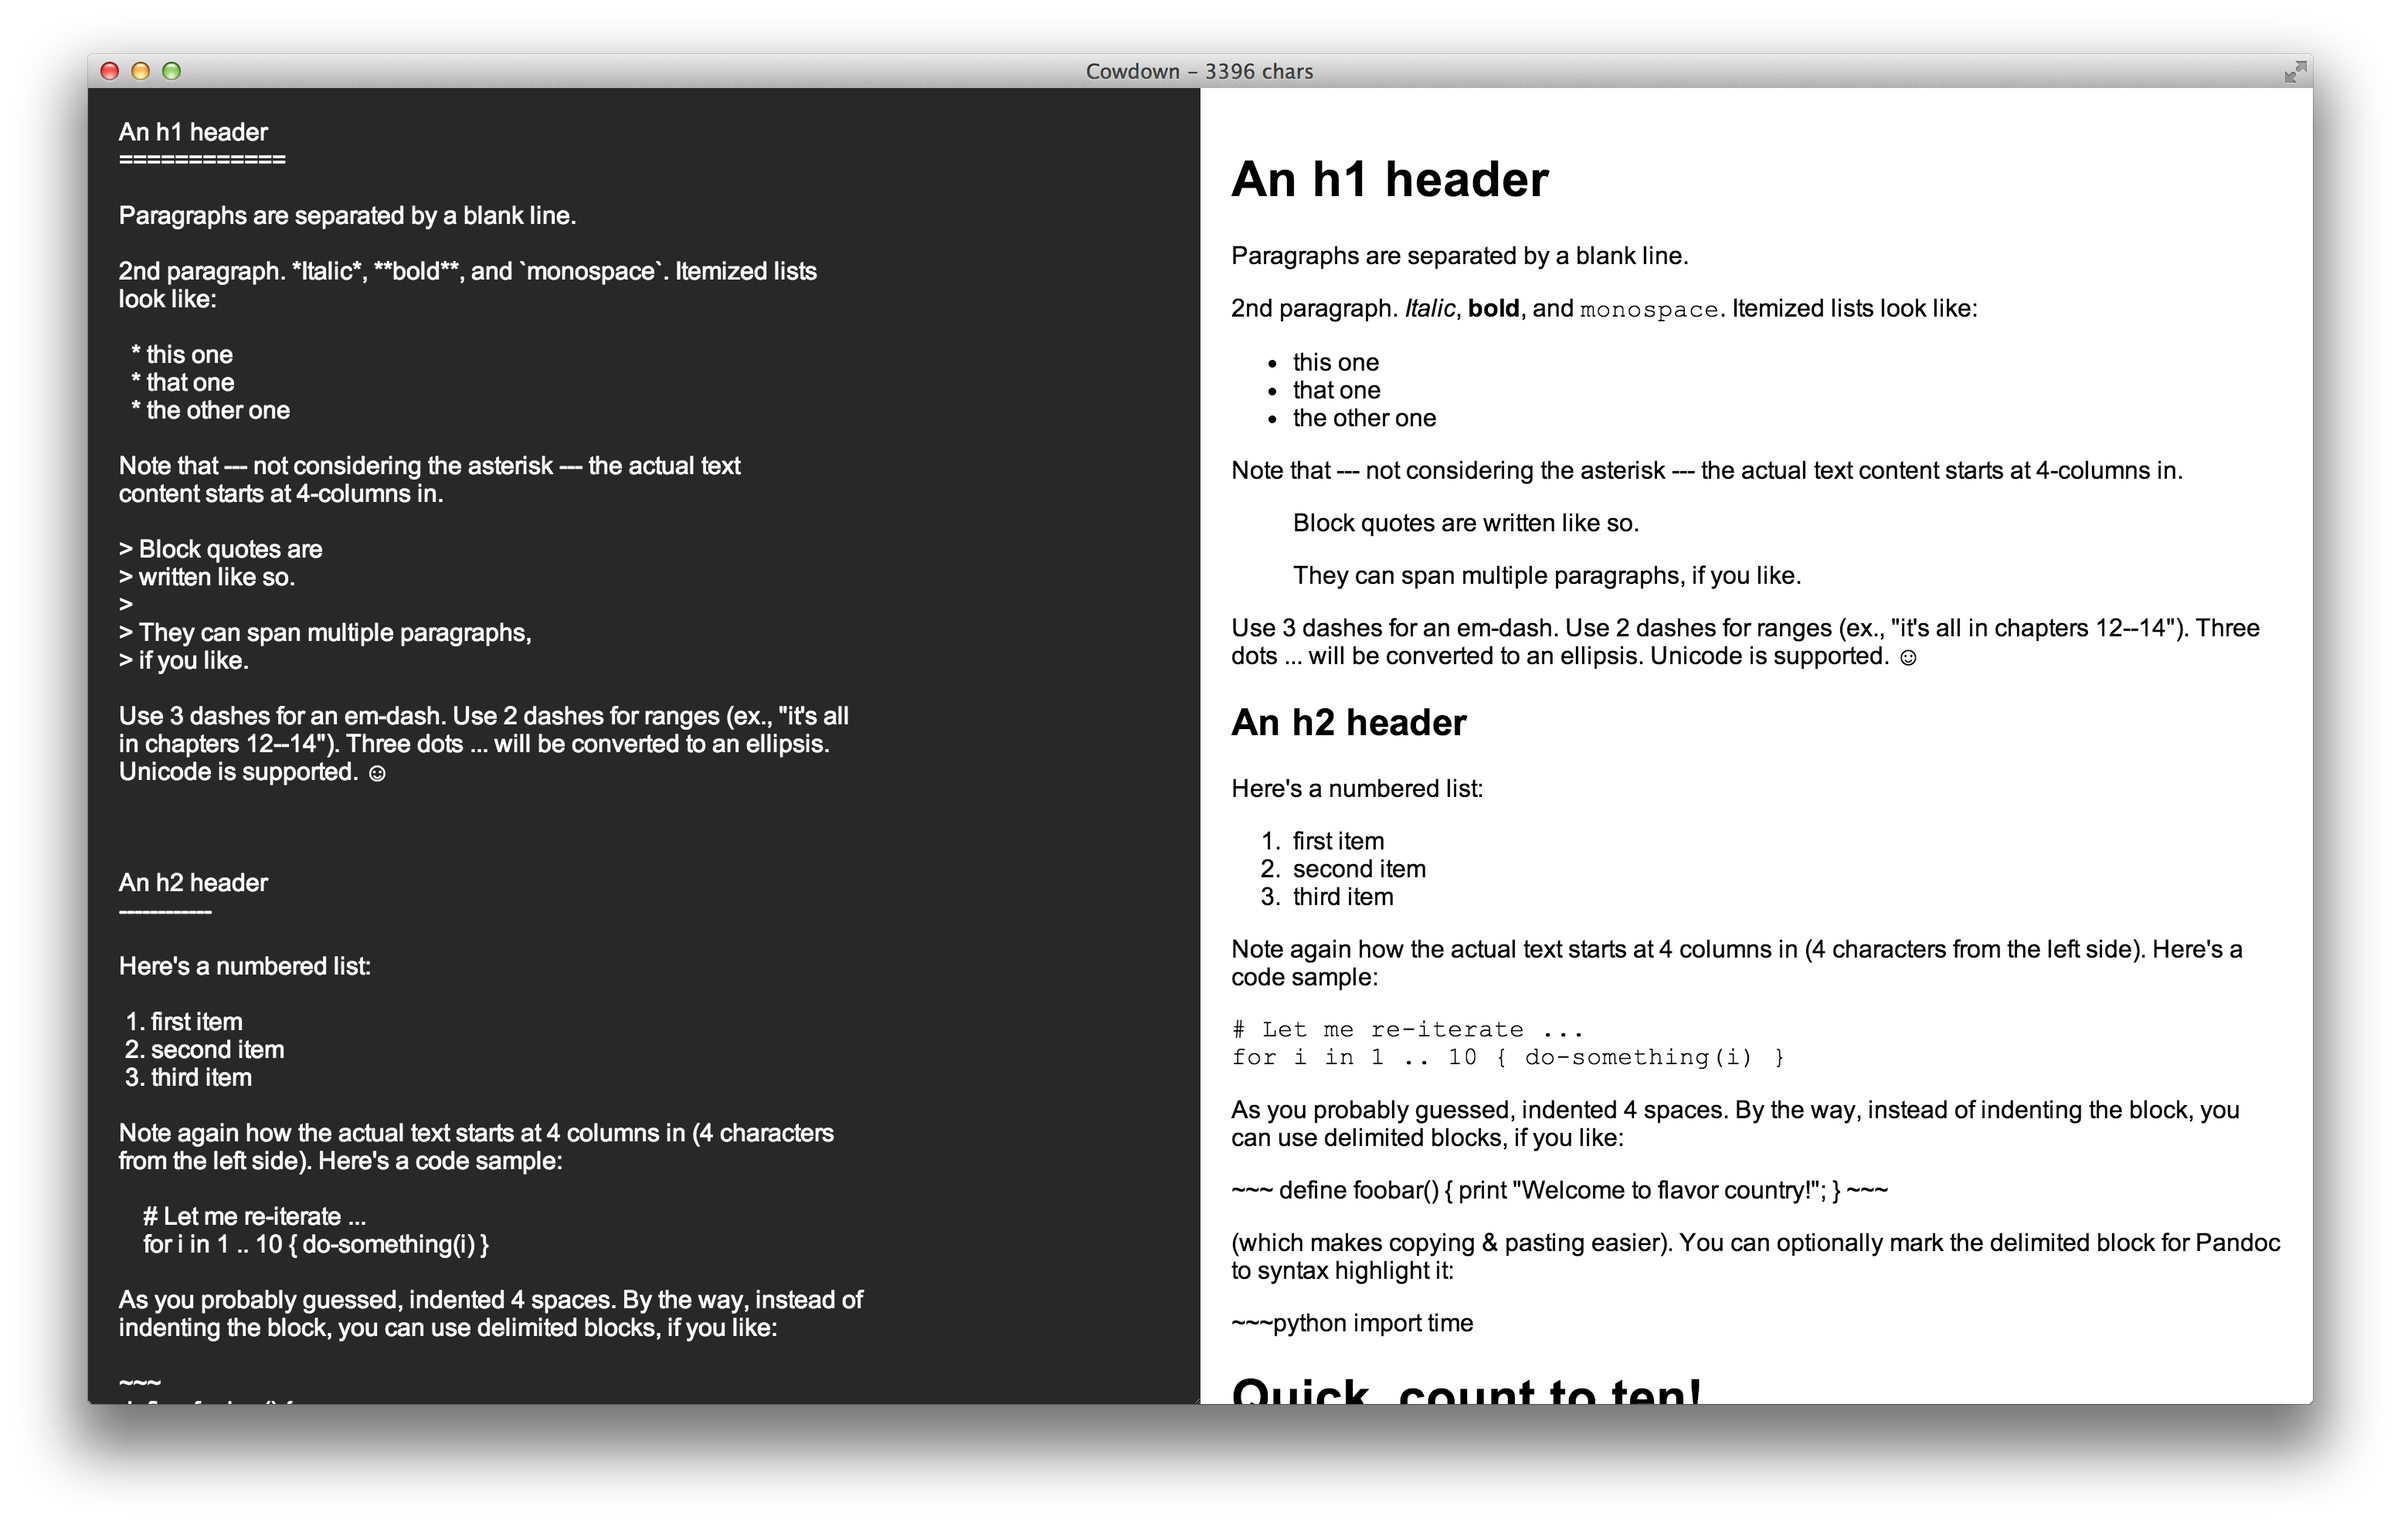
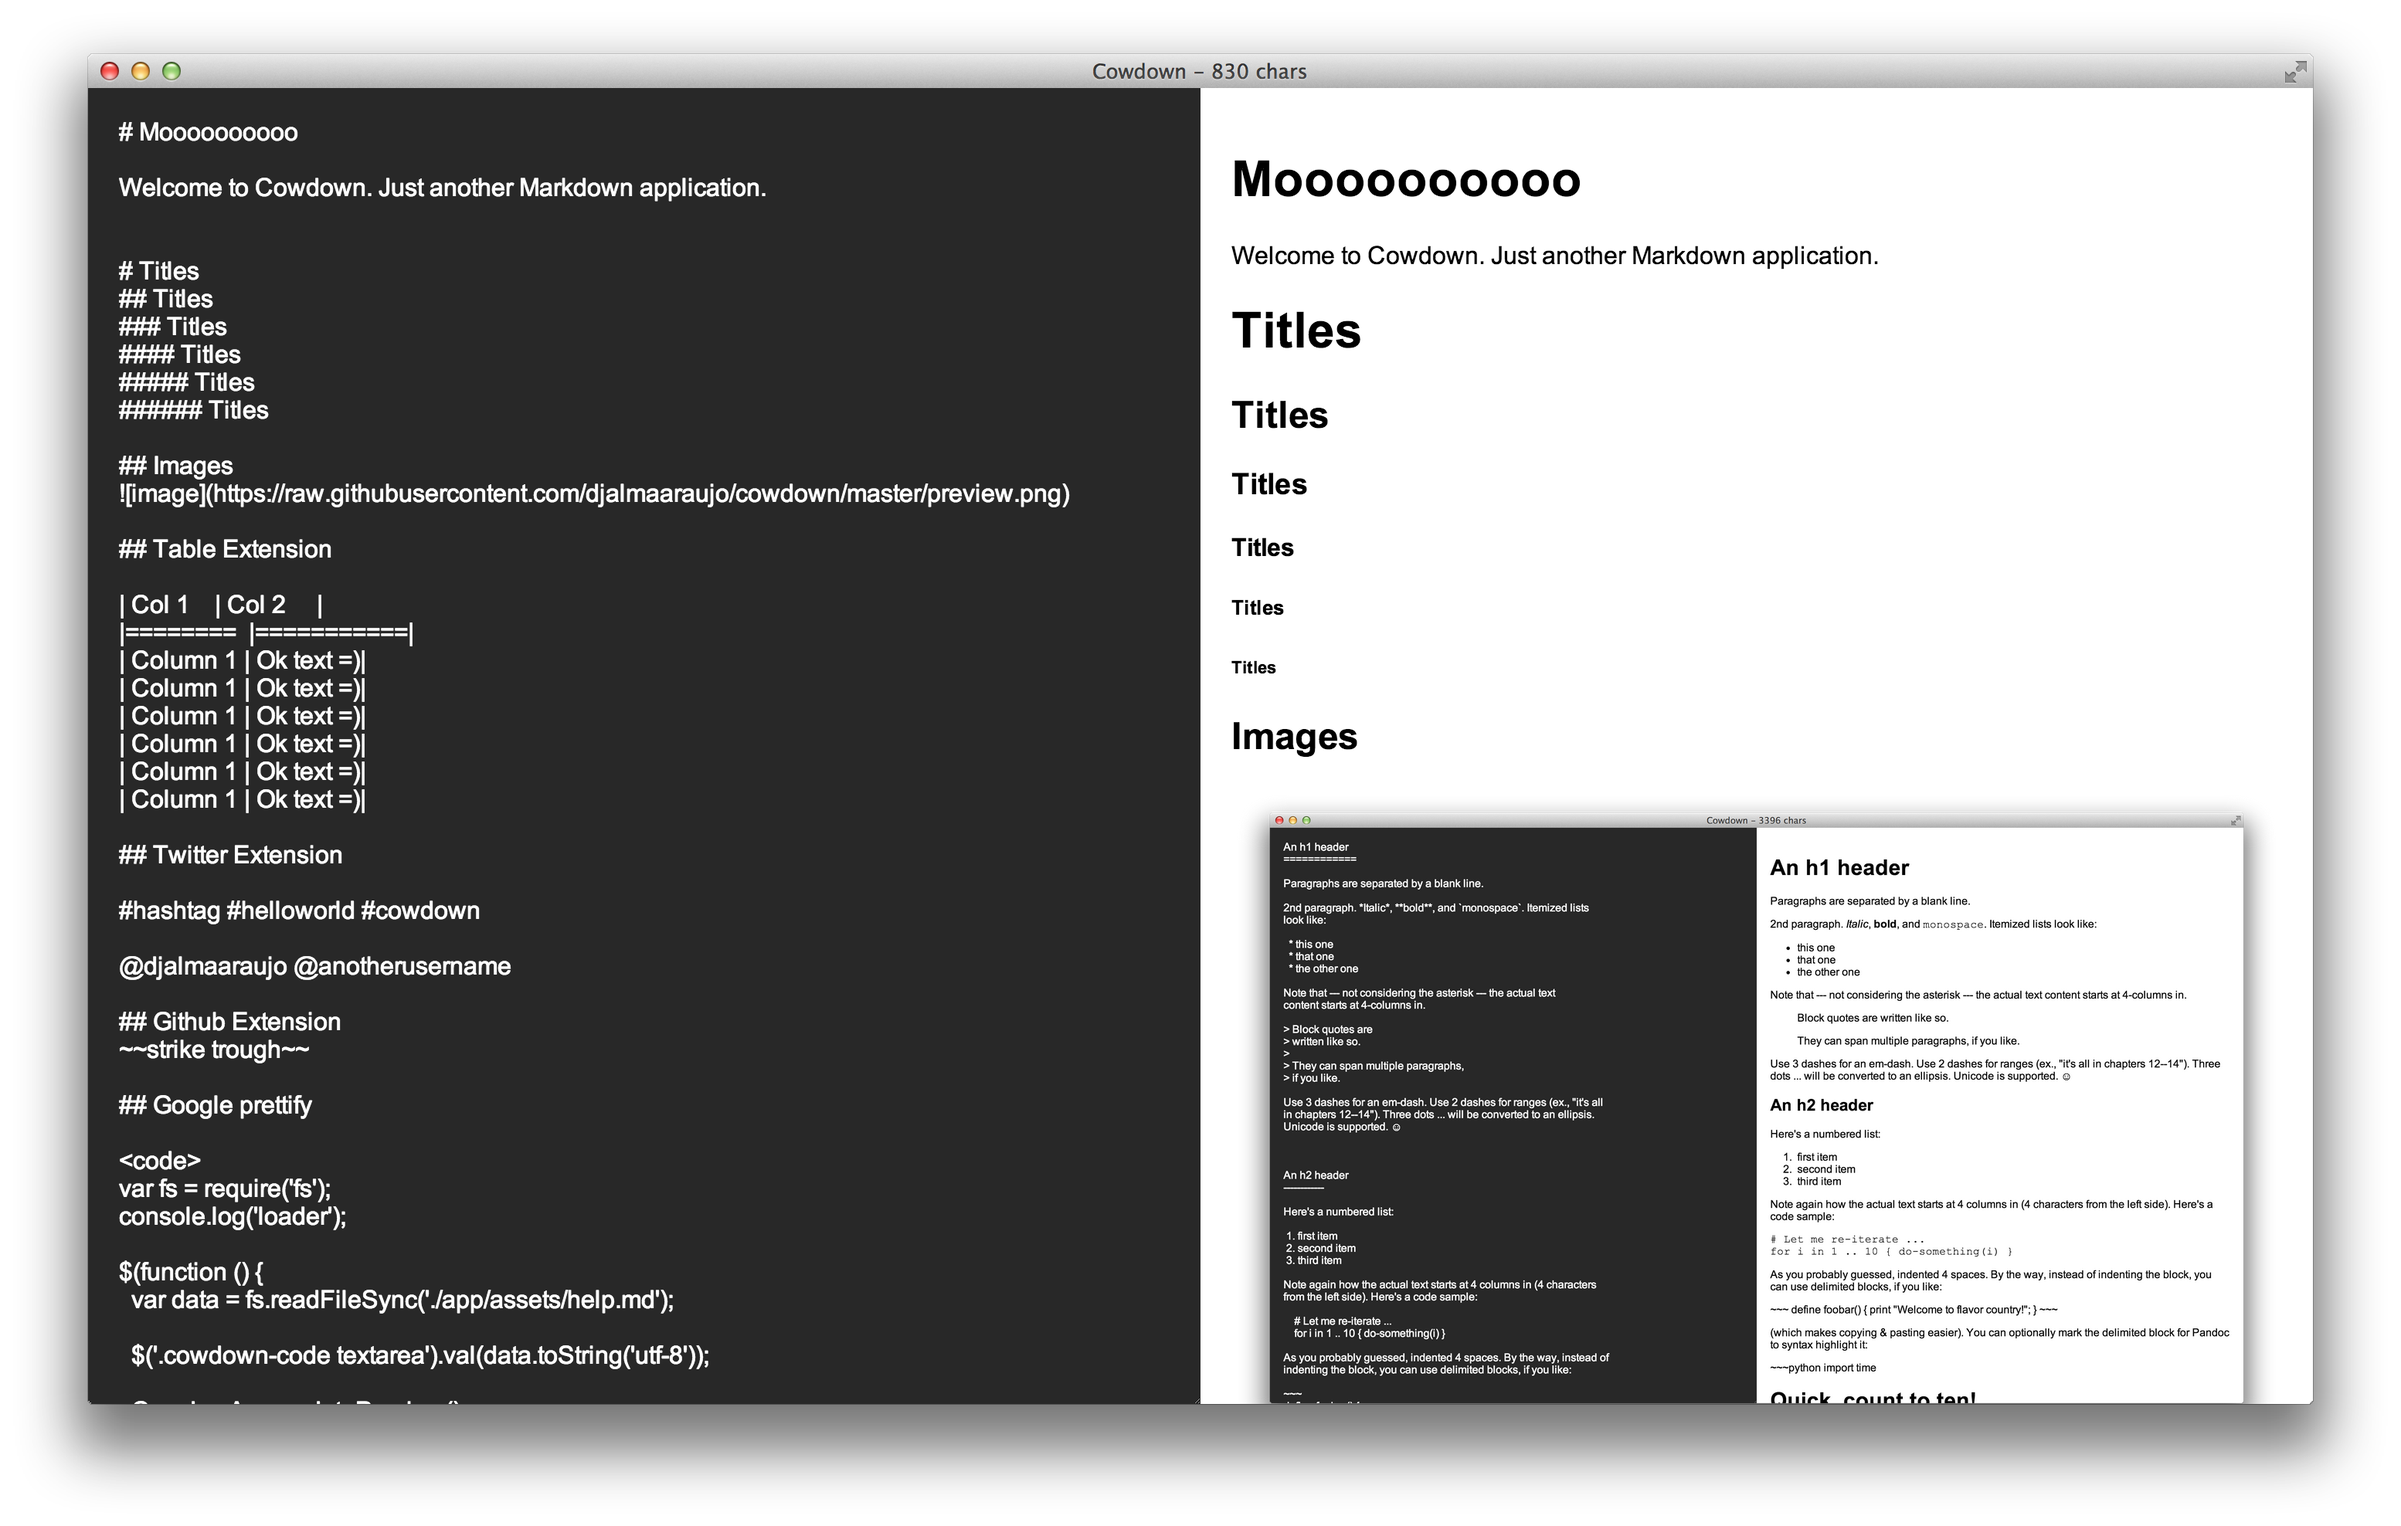
update readme

Changed region(s): [[0.4994, 0.0926, 0.9675, 0.9261], [0.0312, 0.0617, 0.4369, 0.8952], [0.4681, 0.0309, 0.5306, 0.0617]]

diff --git a/README.md b/README.md
@@ -5,6 +5,8 @@ A simple app using node-webkit.
 
 ![image](https://raw.githubusercontent.com/djalmaaraujo/cowdown/master/preview.png)
 
+![image](https://raw.githubusercontent.com/djalmaaraujo/cowdown/master/preview2.png)
+
 ## To use
 * bower install
 * /path/to/nw .
